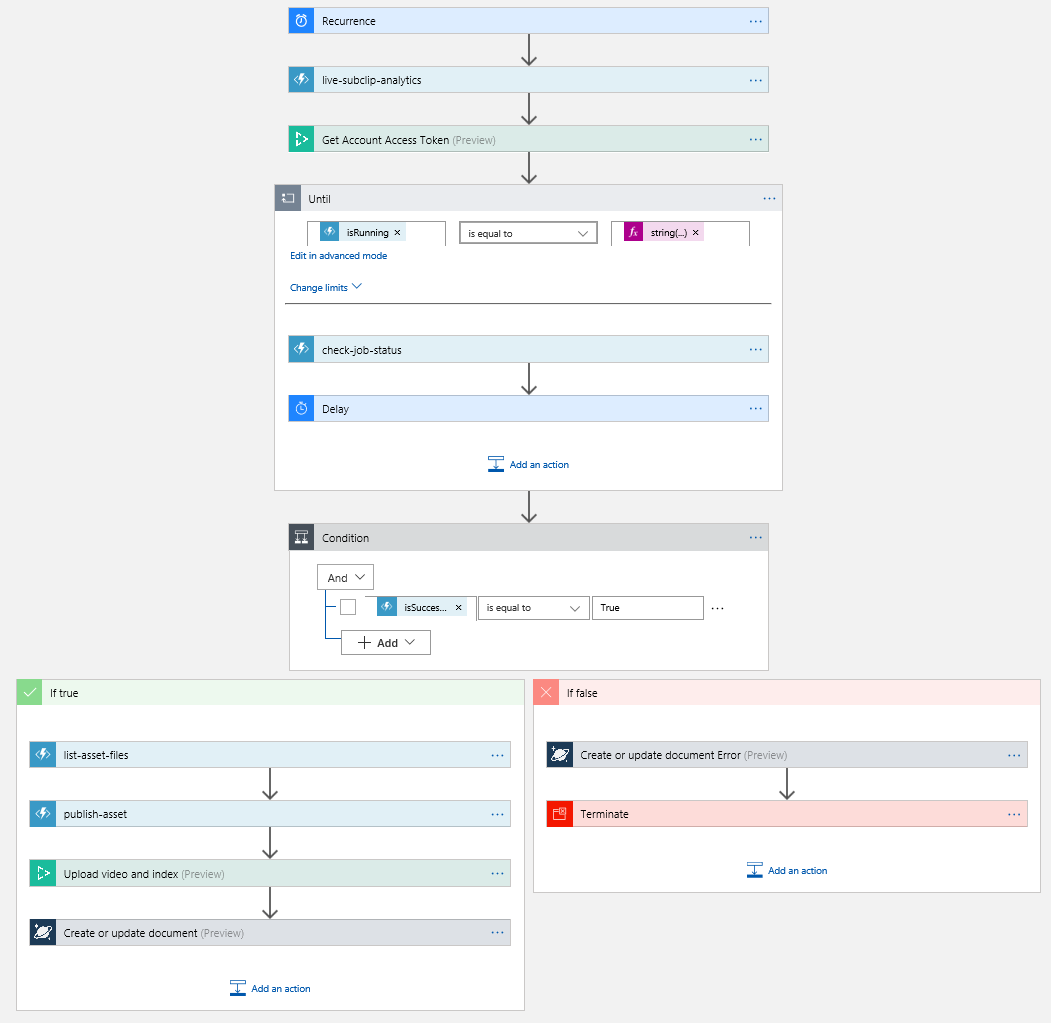
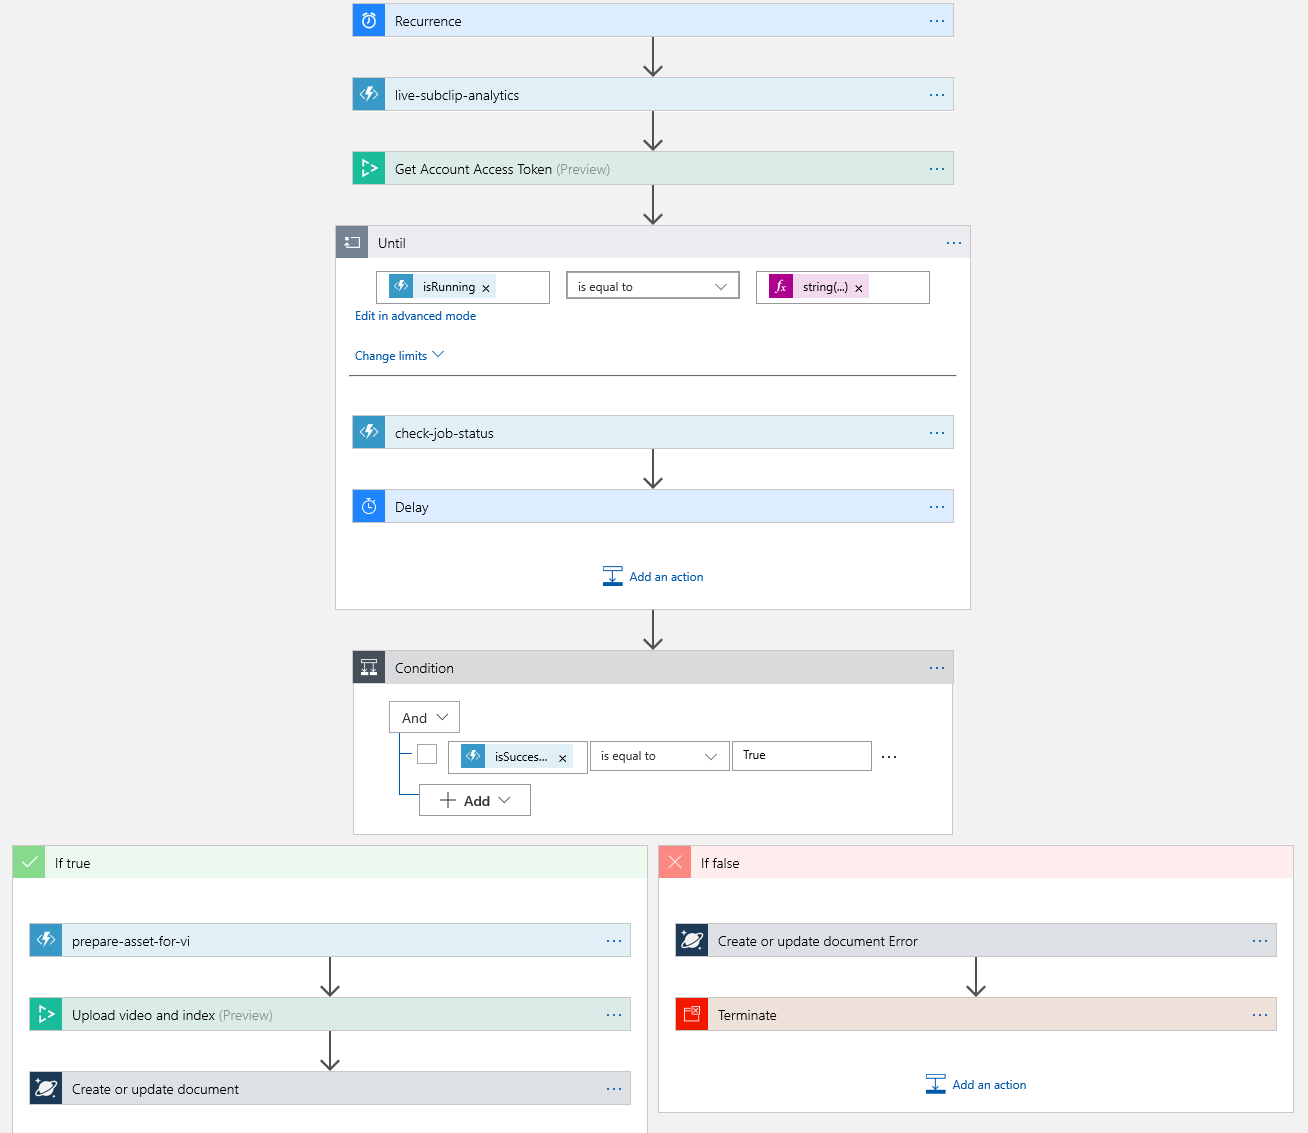
Update to logic app to use new Assetid parameter

diff --git a/media-functions-for-logic-app/README.md b/media-functions-for-logic-app/README.md
@@ -185,7 +185,7 @@ This template creates two Logic apps which process a live program (from a live c
 
 - Follow the "Prerequisites for all Logic Apps deployments" at the top of this page (step 1 to 4) 
 - Create a Cosmos database and a collection (by default, the template is configured to use a database named "vidb" and a collection named "vicol")
-- Deploy Video Indexer to a new or existing Media Services Account (button "Connect" to Azure in Video Indexer portal). It can be the same or a different Media Services account. It is recommended to choose the same Media Services account than the one used by the functions (and the live steam).
+- Deploy Video Indexer to an existing Media Services Account (button "Connect" to Azure in Video Indexer portal). It should be the same Media Services account than the one used by the functions (and the live steam).
 - Subscribe to Video Indexer API
 - Create a channnel "Channel1" and program "Program1" in the Media Services account used by the functions. Start them. Connect a live encoder (for example, Wirecast) and push the live stream to the channel. If you want to use another name for the channel and program, then you will have to edit the step 1 logic app to reflect the new names.
 - Setup 10 S3 media reserved units in the Media Services account(s)
